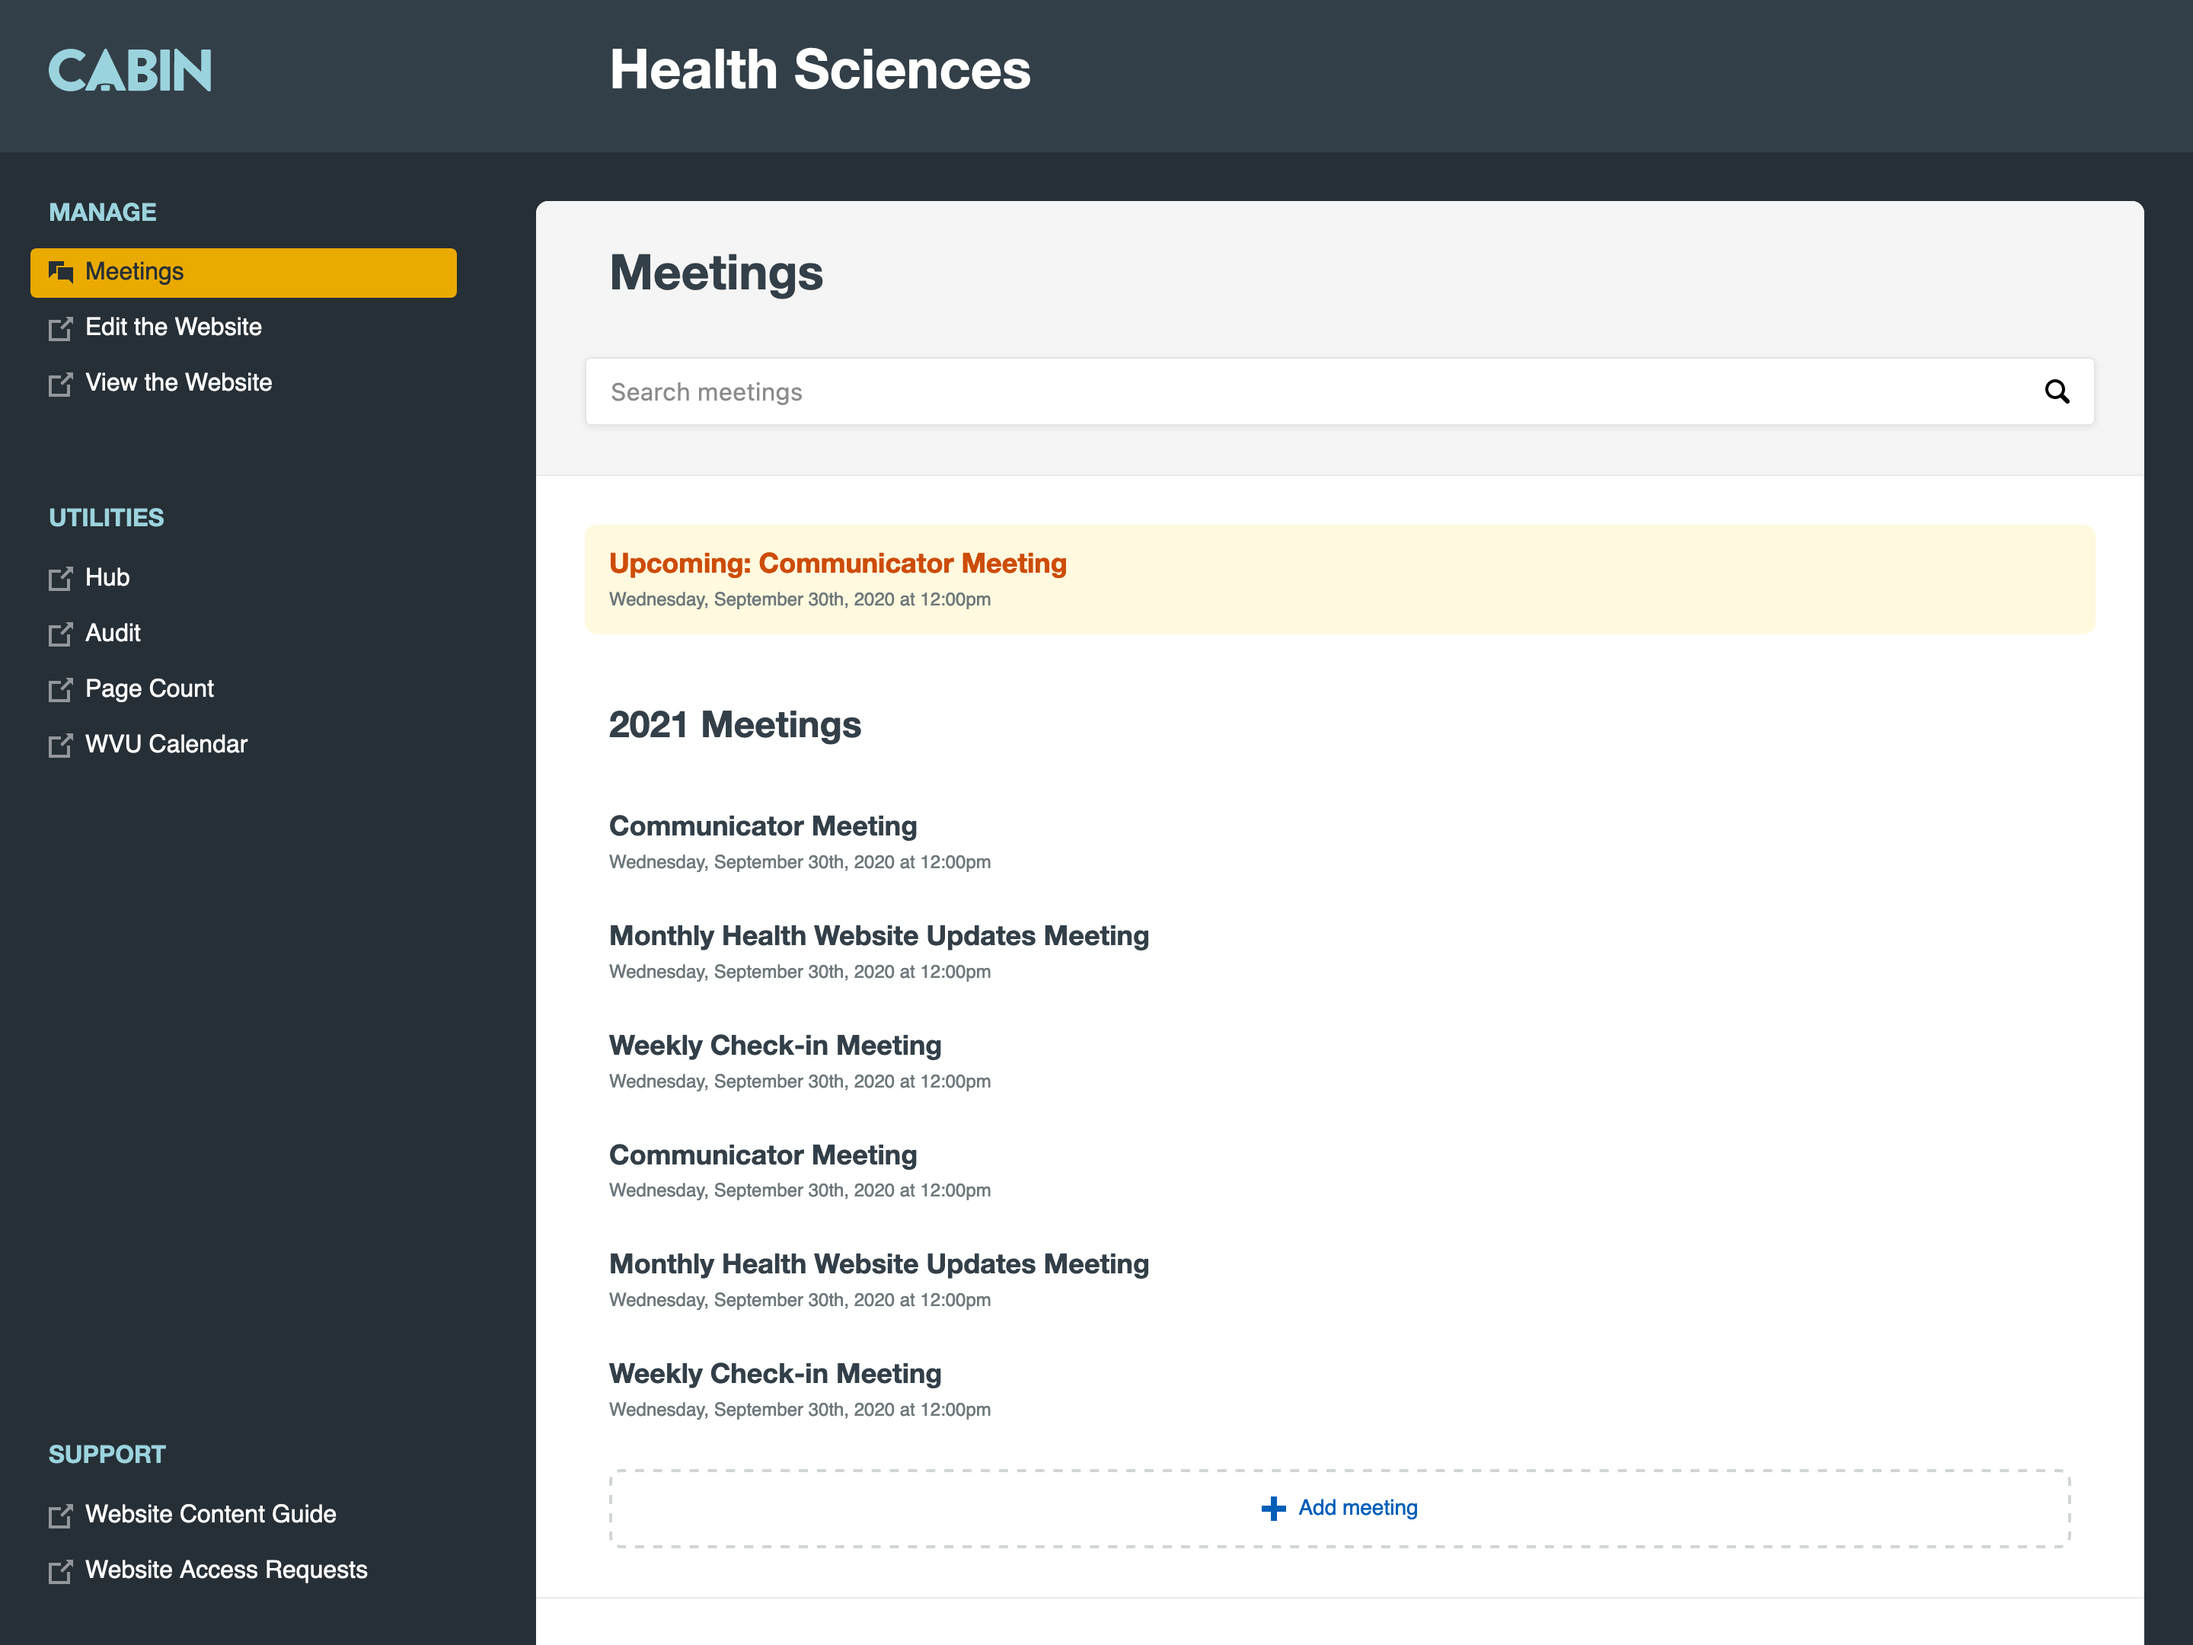
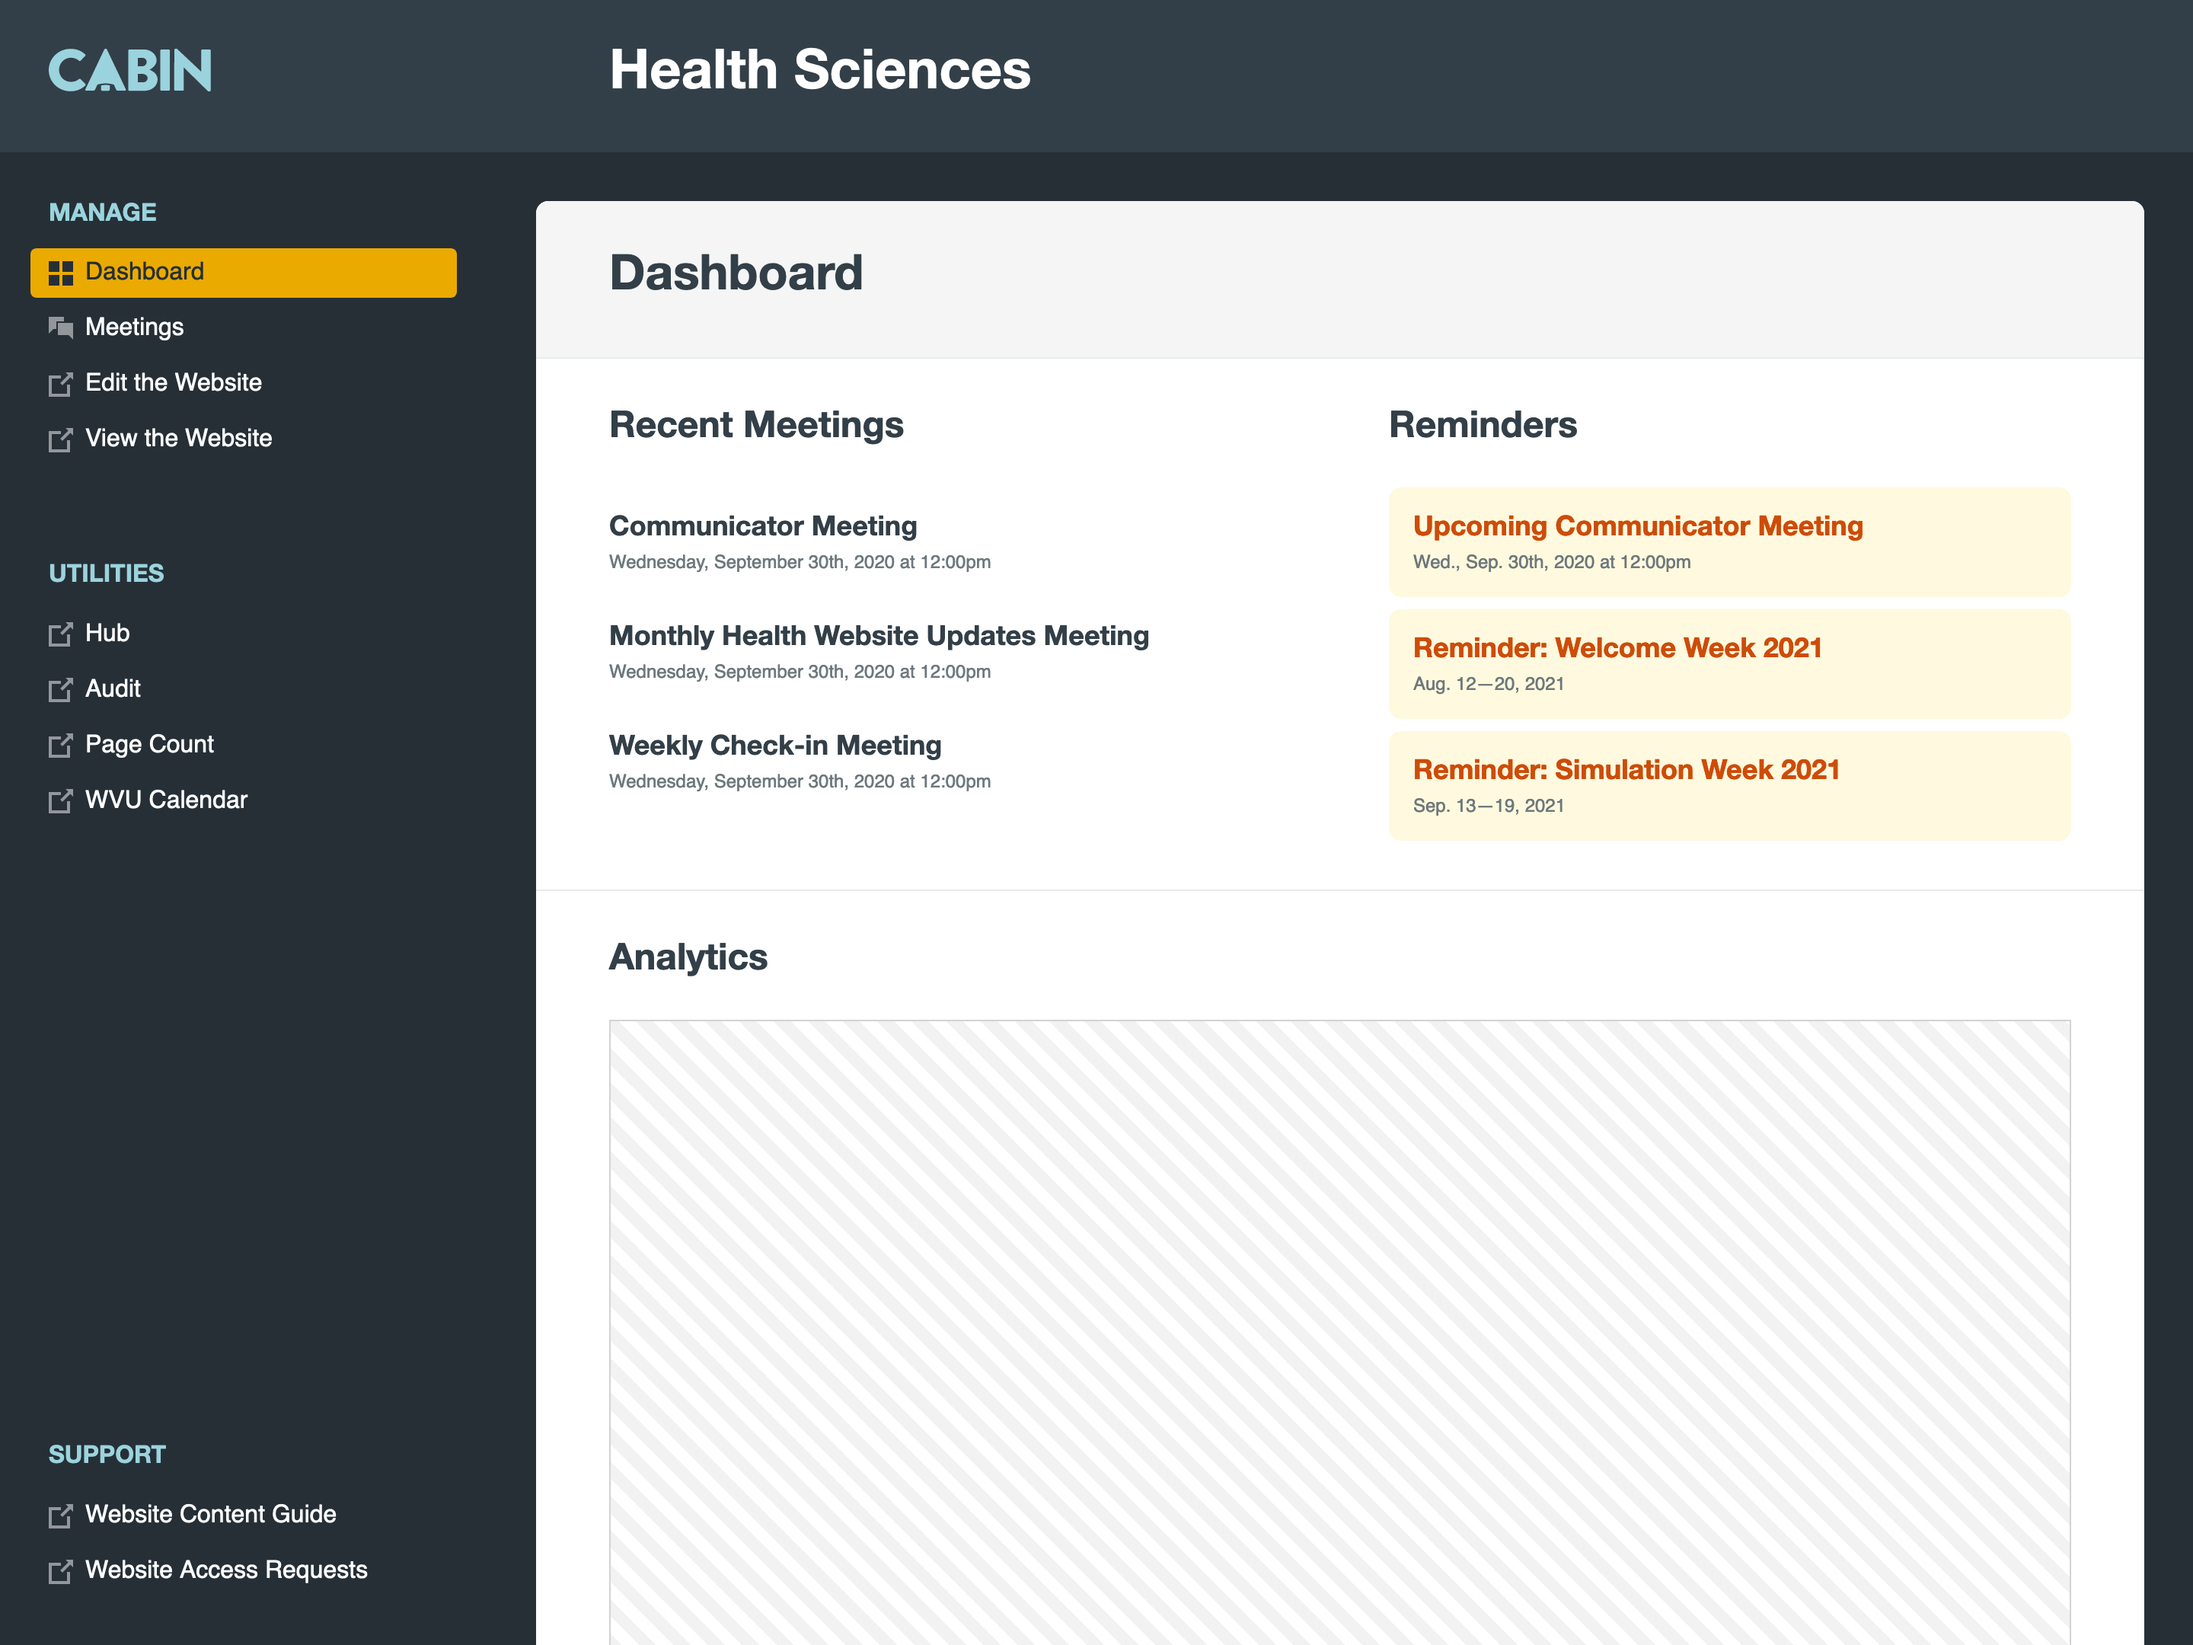
Making various copy edits and updating screen shots

diff --git a/_projects/character-animation.md b/_projects/character-animation.md
@@ -9,6 +9,4 @@ unpublished: true
 
 **I love animation** and using motion to communicate and guide an audience. I wanted to truly understand and apply the fundamentals of animation in my own work, and I found that character animation is one of the toughest forms of animation to learn and become proficient at.
 
-In Fall 2022, I enrolled in the 18-month 3D character animation program at [Animation Mentor](https://www.animationmentor.com/) where I completed the **animation basics**, **body mechanics**, and **advanced body mechanics** courses. I obtained a firm grasped on the 12 principles of animation and how to apply these principles to animating 3d character.
-
-While I haven’t been able to complete the program, I've gained an invaluable skillset and an intracate eye that I apply to any animation I'm working on moving forward.
+In Fall 2022, I enrolled in the 18-month 3D character animation program at [Animation Mentor](https://www.animationmentor.com/) where I completed the **animation basics**, **body mechanics**, and **advanced body mechanics** courses. I have a firm grasp on the 12 principles of animation along with an eye for intricacies that I apply to animating 3D characters and to UI motion design.

diff --git a/_sections/about.md b/_sections/about.md
@@ -6,7 +6,7 @@ order: 3
 
 **With over a decade of experience,** my creativity and appreciation for web standards complement my meticulous attention to detail and writing creative markup. I transition comfortably between front-end and back-end environments, thriving on moving projects from conception to launch.
 
-I’m currently a **user experience designer** at [West Virginia University Health Sciences](https://health.wvu.edu). As member of the web team, I conceptualize and build web experiences using quality, hand-crafted, reusable components while pushing the boundaries of the set brand patterns.
+I’m currently a **user experience designer** at [West Virginia University Health Sciences](https://health.wvu.edu). As a member of the digital team, I conceptualize and build web experiences using quality, hand-crafted, reusable components while pushing the boundaries of the set brand patterns.
 
 I appreciate simplicity and user centered design, taking particular delight in microinteractions and using motion to guide users. **I’m eager to break habits and learn new things.**
 

diff --git a/_projects/cabin.md b/_projects/cabin.md
@@ -10,6 +10,8 @@ Built on the Umbraco content management system, Cabin is a simple project manage
 
 This simple and clean interface is reinforced by a modular design system, keeping scalability in mind to build upon as new features are added.
 
+{% figure image="cabin/cabin_dashboard.jpg" caption="" %}
+
 {% figure image="cabin/cabin_meetings.jpg" caption="" %}
 
 {% figure image="cabin/cabin_meeting.jpg" caption="" %}
